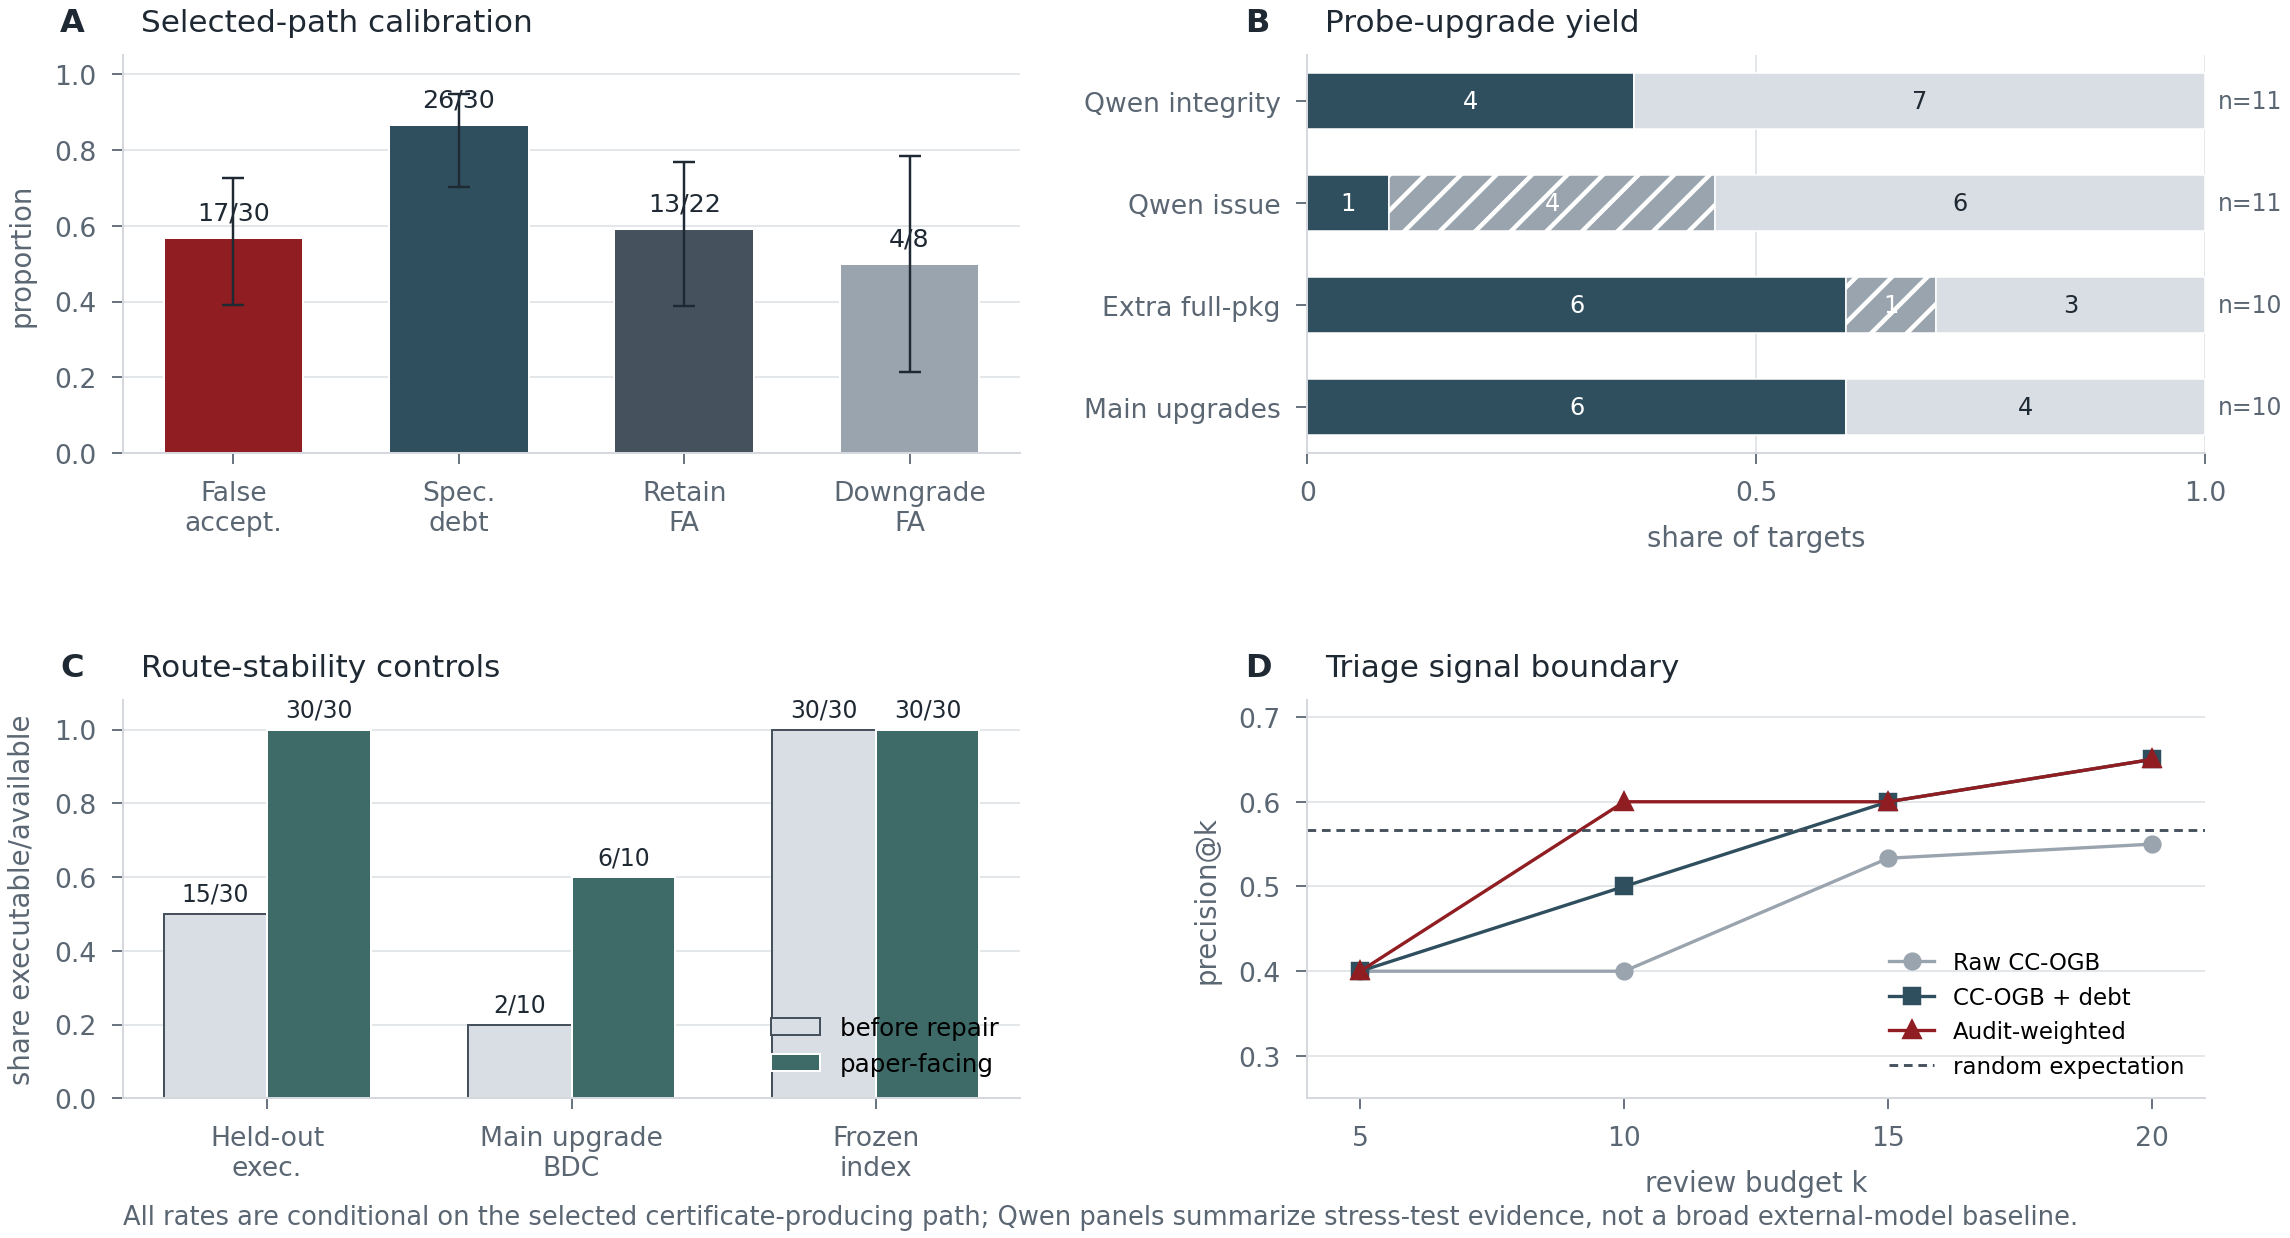
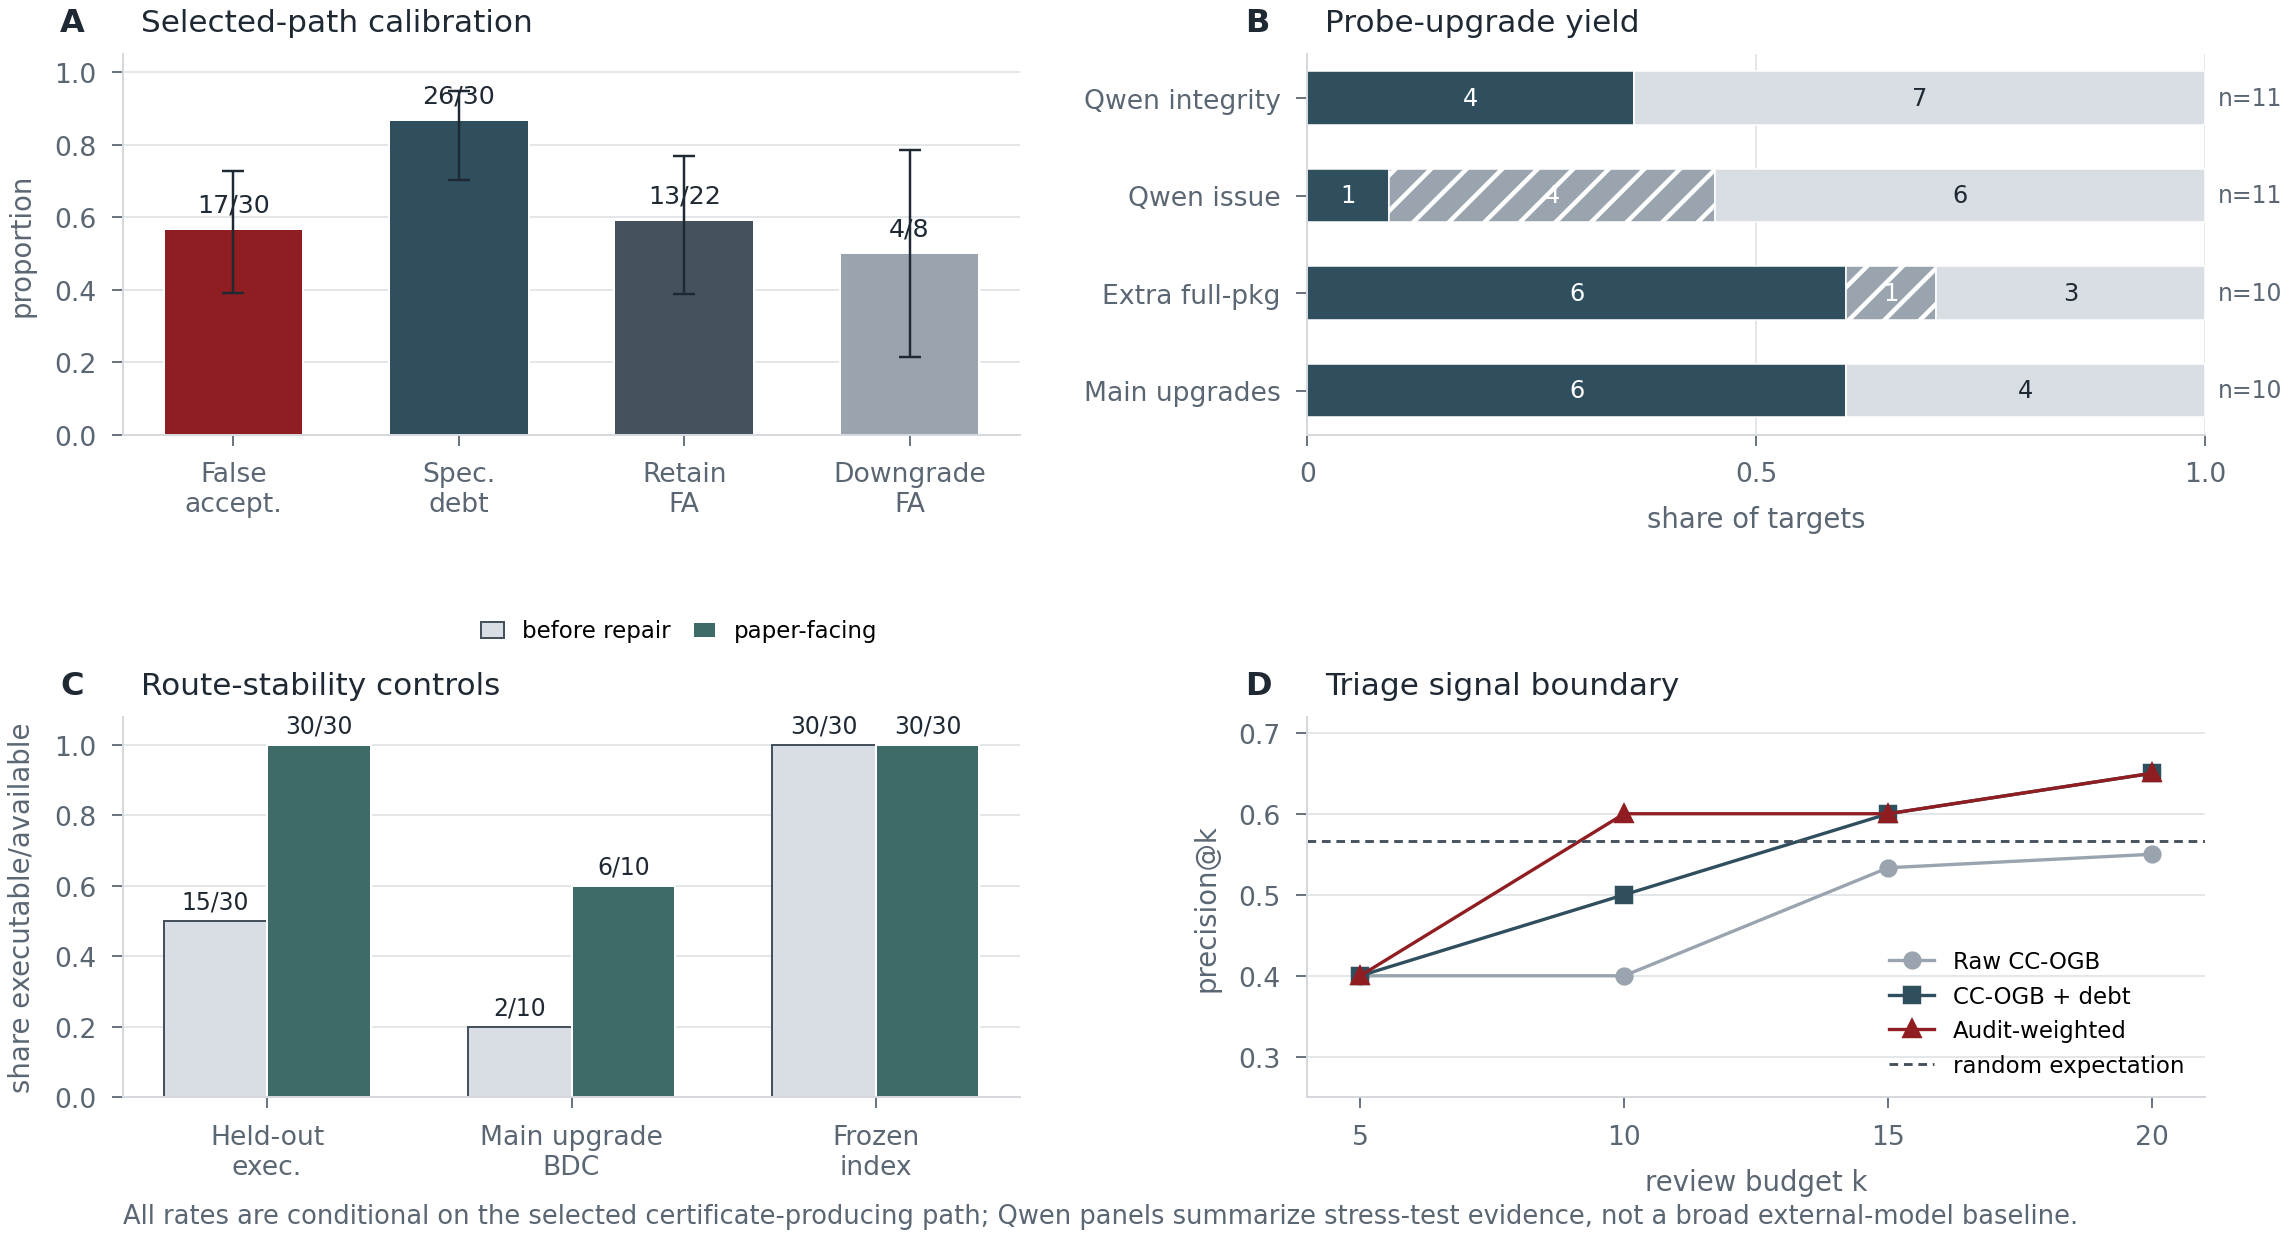
Refresh package with final figure and conclusion polish

diff --git a/artifact/inspect_only/latex/main.tex b/artifact/inspect_only/latex/main.tex
@@ -650,13 +650,14 @@ The artifact contains the corresponding single-purpose plots for calibration rat
 The following cases ground the aggregate tables in certificate-level evidence.
 They connect the table-level claims in Tables~\ref{tab:heldout}--\ref{tab:claim-boundary} to artifact audit rows.
 Each case links to the underlying certificate and table row for inspection.
+Code-facing evidence appears in Figures~\ref{fig:structured-patch-record}, \ref{fig:probe-code-cards}, and \ref{fig:django-code-card}.
 
 \subsection{Seaborn MultiIndex Pairplot}
 
 Seaborn-3407 is the strongest cross-source case.
 It appears in the main upgraded probe layer and is also the only Qwen issue/full-package pass/fail BDC after multi-sample generation.
-The issue-level package probe separates visible-passing edits: the main lane reports three pass and one fail, and the Qwen lane reports one pass and four fail, with the passing group constructing the 4-by-4 axes grid shown in Figure~\ref{fig:probe-code-cards}.
-The certificate is formed from public behavior alone, so the case supports independent-source compatibility without carrying a broad Qwen reproduction claim.
+The issue-level package probe separates visible-passing edits: the main lane reports three pass and one fail, and the Qwen lane reports one pass and four fail, with the passing group constructing the 4-by-4 axes grid in Figure~\ref{fig:probe-code-cards}.
+The certificate supports independent-source compatibility without carrying a broad Qwen reproduction claim.
 
 \subsection{Matplotlib All-NaN Bar Plot}
 
@@ -669,52 +670,63 @@ The certificate localizes the behavioral split; the false-acceptance label comes
 
 Scikit-Learn-10508 separates issue behavior from package-integrity risk.
 In the main lane, the LabelEncoder empty-transform reproducer yields a pass/fail certificate once compiled-extension/build routing is repaired.
-That record has three passing candidates, one failing candidate, and no timeouts; the passing group preserves an empty one-dimensional output, while the failing group hits a NumPy casting path.
-In the Qwen lane, issue-specific probes remain all-fail, while a package-integrity probe reports two pass and three fail on whether LabelEncoder can be imported and constructed.
-\patchcourt records both facts but treats the integrity split as package-risk evidence rather than issue-correctness evidence.
+The record has three pass, one fail, and no timeouts: the passing group preserves an empty one-dimensional output, while the failing group hits a NumPy casting path.
+In the Qwen lane, issue-specific probes remain all-fail, while a package-integrity probe reports two pass and three fail on whether LabelEncoder can be imported and constructed; \patchcourt treats that split as package-risk evidence rather than issue-correctness evidence.
 
 \subsection{Django Semantic Split}
 
 Django-16873 is a full-package semantic split under template rendering with autoescape disabled.
-The record has three passing candidates, one failing candidate, and no timeouts: the passing group preserves literal line-break separators under the issue reproducer, while the failing group escapes them as text and raises an assertion.
-The later held-out label for the selected candidate is not false acceptance, so the case illustrates how \bdcs flag unresolved semantics without becoming hidden-test labels.
+The record has three pass, one fail, and no timeouts: the passing group preserves literal line-break separators, while the failing group escapes them and raises an assertion.
+The later held-out label is not false acceptance, so the case shows how \bdcs flag unresolved semantics without becoming hidden-test labels.
+
+\begin{figure}[t]
+\begin{lstlisting}[style=patchcourtpatch]
+# Django-16873 full-package public probe
+out = render_join(autoescape=False)
+
+A/B/C: pass -> "alpha\nbeta"
+D:     fail -> escaped separator assertion
+
+certificate: pass/fail BDC before freeze
+boundary: semantic split, not hidden-test oracle
+\end{lstlisting}
+  \caption{Code-facing Django case probe. The public full-package probe splits three visible-passing candidates that preserve separator behavior from one that escapes it.}
+  \Description{A compact code-like Django probe card showing render_join with autoescape disabled, three passing candidates preserving alpha newline beta, one failing candidate with an escaped separator assertion, and a boundary note that the certificate is not a hidden-test oracle.}
+  \label{fig:django-code-card}
+\end{figure}
 
 \subsection{SymPy Issue-Code Layer}
 
 SymPy task 23117 demonstrates the issue-code layer.
 The public snippet in Figure~\ref{fig:probe-code-cards} yields three pass, one fail, and no timeouts, with the passing group preserving an empty array result.
-This cheap issue-tied layer is stronger than a source-isolated template while remaining separate from held-out calibration.
+This issue-tied layer is stronger than a source-isolated template while remaining separate from held-out calibration.
 
 \section{Related Work}
 
 \subsection{Repository-Level Repair, Agents, and Benchmarks}
 
-Repository-level repair studies now sit on a stack of benchmark and model infrastructure.
+Repository-level repair sits on benchmark and model infrastructure.
 Defects4J, ManyBugs, Bugs.jar, Bears, BugsInPy, and QuixBugs established controlled real-bug substrates for repair and testing research \cite{just2014defects4j,le2015manybugs,saha2018bugsjar,madeiral2019bears,widyasari2020bugsinpy,lin2017quixbugs}.
 SWE-bench and SWE-bench+ move the unit of work to GitHub issues and real repository snapshots \cite{jimenez2024swebench,aleithan2024swebenchplus}.
 Code models and code benchmarks provide the upstream capability base for these systems \cite{feng2020codebert,lu2021codexglue,chen2021codex,austin2021program,wang2021codet5,li2022alphacode,nijkamp2023codegen,roziere2023codellama,guo2024deepseekcoder}.
-Agent work then studies how models search repositories, call tools, manage turns, and produce candidate fixes \cite{yang2024sweagent,zhang2024autocoderover,bouzenia2025repairagent,xia2024agentless,gao2026moreless,tian2026ensemble}.
+Agent work studies repository search, tool use, turn management, and candidate-fix generation \cite{yang2024sweagent,zhang2024autocoderover,bouzenia2025repairagent,xia2024agentless,gao2026moreless,tian2026ensemble}.
 \patchcourt enters after that generation process.
-Its contribution is not a new search policy or agent loop; it audits the moment when a visible-pass candidate would otherwise be accepted and records what public evidence remains unresolved.
+It audits the moment when a visible-pass candidate would otherwise be accepted and records what public evidence remains unresolved.
 
 \subsection{LLM Repair and APR Overfitting}
 
-Automated program repair has long separated test-passing plausibility from semantic correctness.
-Generate-and-validate repair, template repair, semantic repair, and learning-based repair explore different ways of producing plausible patches \cite{weimer2009genprog,legoues2012systematic,kim2013par,nguyen2013semfix,long2016prophet,mechtaev2016angelix,xuan2017nopol,tufano2019learning,lutellier2020coconut,jiang2021cure,zhu2021recoder,xia2022less,xia2023conversational}.
+Automated program repair has long separated test-passing plausibility from semantic correctness, across generate-and-validate, template, semantic, and learning-based repair \cite{weimer2009genprog,legoues2012systematic,kim2013par,nguyen2013semfix,long2016prophet,mechtaev2016angelix,xuan2017nopol,tufano2019learning,lutellier2020coconut,jiang2021cure,zhu2021recoder,xia2022less,xia2023conversational}.
 Patch plausibility and overfitting studies show why passing tests can be insufficient \cite{qi2015plausibility,smith2015overfitting,ye2021automated,gazzola2019survey}.
 Recent ICSE work revisits APR in the LLM era through code-language-model impact, bug-report/test coupling, objective alignment, input reduction, and unnaturalness-based ranking \cite{jiang2023impact,motwani2023better,xu2025aligning,yang2026inputreduction,yang2025unnaturalness}.
-\patchcourt does not rediscover overfitting.
-It operationalizes a narrower acceptance-time question for repository-level LLM patch pools: after visible tests pass, can public, gold-blind behavior measurements expose an auditable risk record before benchmark labels are opened?
+\patchcourt operationalizes a narrower acceptance-time question for repository-level LLM patch pools: after visible tests pass, can public, gold-blind behavior measurements expose an auditable risk record before benchmark labels are opened?
 
 \subsection{Patch Correctness, Benchmark Validity, and Contamination}
 
 Recent SWE-bench correctness work asks whether benchmark-accepted issues are genuinely fixed and uses PatchDiff to compare generated patches against human-written ground-truth patches \cite{wang2025swebenchcorrectness}.
-Diagnostic benchmark work also studies whether strong SWE-bench performance may reflect memorization or benchmark exposure rather than issue reasoning \cite{liang2025illusion,jain2025livecodebench}.
-These studies are closest to \patchcourt because they challenge the meaning of a reported benchmark pass.
-Their timing is different.
-PatchDiff-style analysis can use developer patches, hidden tests, or stronger labels after evaluation.
-\patchcourt freezes an evidence ledger before those labels enter the process, then uses held-out calibration to measure how often the public evidence aligned with later failure.
-The resulting claim is weaker than retrospective correctness judgment, but it is available at the acceptance boundary where repair agents and benchmark pipelines must decide whether to trust a candidate.
+Diagnostic benchmark work studies whether strong SWE-bench performance may reflect memorization or benchmark exposure rather than issue reasoning \cite{liang2025illusion,jain2025livecodebench}.
+These studies challenge the meaning of a benchmark pass after evaluation.
+\patchcourt instead freezes an evidence ledger before developer patches, hidden tests, or stronger labels enter the process, then uses held-out calibration to measure alignment with later failure.
+The claim is weaker than retrospective correctness judgment, but it is available at the acceptance boundary.
 
 \subsection{Generated Tests, Oracles, and Validation}
 
@@ -723,35 +735,34 @@ Classic testing work developed feedback-directed random testing, symbolic execut
 Search-based and LLM-based testing studies continue this line with generated tests, bug reproduction, and execution feedback \cite{lemieux2023codamosa,kang2023fewshot,chen2023codet,liu2023evalplus,ahmed2026heterogeneous,shin2026retrieval,li2026knowledge}.
 Oracle-generation work, including TOGA, neural-oracle evaluations, and TOGLL, studies when automated or LLM-produced assertions become correct and strong enough for testing \cite{barr2015oracle,pezzezhang2014oracles,dinella2022toga,hossain2023neuraloracle,hossain2025togll}.
 \patchcourt treats probes as evidence-producing instruments rather than as generated oracle labels.
-Their role is to separate visible-passing candidate behavior and create a certificate whose evidentiary weight depends on the layer: source-isolated, issue-code, full-package issue, package-integrity, or post-freeze held-out calibration.
+Their evidentiary weight depends on the layer: source-isolated, issue-code, full-package issue, package-integrity, or post-freeze held-out calibration.
 
 \section{Threats to Validity}
 
 \textbf{Internal validity.}
 Probe code may encode an incomplete interpretation of the issue.
 Environment routing may introduce artifacts, especially for repositories with compiled extensions, old dependencies, or package-specific entry points.
-\patchcourt mitigates this by logging route metadata, reporting the route-stability table, and separating source-isolated, issue-code, full-package, package-integrity, and held-out layers.
-The rubric still relies on human judgment; stable certificate links, pass/fail behavior, audit labels, and downgrade reasons are exposed in the artifact rather than hidden behind a single score.
+\patchcourt mitigates this by logging route metadata, reporting route stability, and separating source-isolated, issue-code, full-package, package-integrity, and held-out layers.
+The rubric still relies on human judgment; certificate links, pass/fail behavior, audit labels, and downgrade reasons are exposed in the artifact.
 
 \textbf{Construct validity.}
 \bdcs localize public behavioral disagreement, while \ccogb summarizes a candidate-conditional lower-bound signal.
-All-fail divergence is weaker than pass/fail disagreement, and package-integrity probes measure regression or API preservation rather than issue behavior.
-The tables keep these evidence types separate so that risk evidence is not collapsed into a correctness label.
+All-fail divergence is weaker than pass/fail disagreement, and package-integrity probes measure regression or API preservation rather than issue behavior; the tables keep those evidence types separate.
 
 \textbf{External validity.}
 The main calibration set contains 30 frozen certificates selected through an audit pipeline.
 The resulting rates describe this selected certificate-producing path.
-Broader repository, language, and candidate-source coverage is needed before estimating field-wide repair behavior.
+Broader repository, language, and candidate-source coverage is needed before estimating field-wide behavior.
 The selection funnel in Figure~\ref{fig:selection-funnel} is included to make this selected-set boundary explicit.
 
 \textbf{Conclusion validity.}
 The correlation, rerank, and abstain results are small-$N$ and preliminary.
 Specification debt performs strongly in this table, but the pattern may reflect the selected certificate set.
-The triage results are therefore practical evidence for review prioritization rather than a validated predictor.
+The triage results are practical evidence for review prioritization rather than a validated predictor.
 
 \textbf{Independent-source validity.}
 One issue-specific pass/fail BDC and four package-integrity BDCs make the Qwen lane a stress test with limited issue-specific yield.
-The direct-diff Qwen run remains a negative baseline, and the project-controlled batch lane remains separate from an authenticated external-model baseline, as recorded in Table~\ref{tab:candidate-provenance}.
+The direct-diff Qwen run remains a negative baseline, and the project-controlled batch lane remains separate from an authenticated external-model baseline.
 
 \textbf{Gold-boundary validity.}
 \patchcourt's strongest design claim is the pre-freeze/post-freeze separation.
@@ -763,23 +774,32 @@ If any future experiment uses developer patches, test patches, FAIL\_TO\_PASS, o
 The anonymous artifact is designed for inspect-only reproduction first, with optional deeper replay where compute and model access are available.
 At Level~0, reviewers inspect frozen tables, reports, certificates, and audit labels without external model access.
 At Level~1, they run the packaged verifier to regenerate paper-facing summaries from the shipped CSV, JSONL, and Markdown files.
-At Level~2, they replay selected probes against existing worktrees on a Linux runtime.
-At Level~3, they regenerate candidates, visible tests, probes, BDCs, ledgers, and calibration with model access or staged local weights.
+At Levels~2--3, they replay selected probes or regenerate candidates, visible tests, probes, BDCs, ledgers, and calibration with suitable runtimes and model access.
 
-The bundle contains the paper tables, main result data files, frozen audit indices, Qwen audit reports, figure sources and rendered figures, and an anonymous claim-boundary card.
+The bundle contains paper tables, result data files, frozen audit indices, Qwen audit reports, figure sources, rendered figures, and an anonymous claim-boundary card.
 It excludes passwords, API keys, transient cookies, private keys, and author-identifying machine paths.
-Execution identifiers remain inside artifact index files for auditability, but the paper-facing text reports stable concepts rather than run-specific names.
+Execution identifiers remain inside index files for auditability, while the paper-facing text uses stable concepts.
 
 \section{Discussion and Conclusion}
 
-The procedural implication is direct.
-Repository-level repair evaluation should not stop at visible-pass acceptance.
-Even when a patch applies and visible tests pass, the candidate pool may still encode incompatible issue interpretations.
-\patchcourt turns that uncertainty into executable audit evidence before evaluation-only labels are read.
+This paper studied a concrete failure mode in repository-level LLM repair: visible tests can accept patches that still encode unresolved issue behavior.
+We characterize that gap as an acceptance-time measurement problem.
+\patchcourt turns visible-passing patches into executable hypotheses, records public behavior disagreements before benchmark labels are read, and calibrates the frozen records after held-out labels become available.
 
-The evidentiary implication is narrower but useful.
-Within the selected certificate-producing path, false acceptance is common enough to make visible-pass acceptance a risky endpoint, and pre-freeze disagreement evidence gives reviewers a concrete reason to rerank, inspect, or abstain.
-The independent-source stress test shows that the pipeline can ingest a local model source, while its low issue-specific yield keeps the strongest empirical claim anchored in the frozen selected path.
+The method follows a deliberately narrow flow.
+Candidate patches first pass through repository apply and visible-test filters.
+Public probes measure behavior at source-isolated, issue-code, full-package, and package-integrity layers.
+Executions are normalized into behavior signatures and retained as certificate records when the audit rubric finds actionable disagreement.
+After freeze, held-out calibration estimates how often the selected certificate-producing path corresponds to false acceptance or specification debt.
+
+The main empirical result is that visible-pass acceptance is a poor stopping point on this selected path.
+Among 30 frozen certificate-producing records, 17 become false acceptances under post-freeze held-out calibration and 26 retain specification-debt signals.
+Stronger issue-code or full-package upgrades preserve pass/fail disagreement in 6/10 selected upgrades, and a separate package-level upgrade set preserves another 6/10 certificates.
+The Qwen stress lane demonstrates source compatibility with one issue-specific and four package-integrity disagreement cases, while keeping the main claim anchored in the audited frozen path.
+
+The broader implication is operational.
+Visible tests should trigger inspection, reranking, or abstention when public executable evidence shows unresolved behavior; they should not be the final oracle for accepting repository-level repairs.
+Future work should expand the selected path across more repositories and model sources, add multi-rater audit, and integrate certificate evidence into repair agents before deployment-time acceptance decisions.
 \bibliographystyle{IEEEtran}
 \bibliography{references}
 

diff --git a/README.md b/README.md
@@ -22,8 +22,8 @@ Expected status: `PASS` with 44 checks.
 
 ## Current Package Hashes
 
[4 lines of base64/hex data omitted]
 
 ## Claim Boundary
 

diff --git a/artifact/inspect_only/reports/phase33_ieee_template_format_report_20260629.md b/artifact/inspect_only/reports/phase33_ieee_template_format_report_20260629.md
@@ -8,8 +8,8 @@ Bind the active ICSE 2027 manuscript to the user-provided IEEE conference templa
 
 ## Template Sources
 
-- Word template archive: `C:/Users/Administrator/xwechat_files/wxid_m8xidlxvgjqp22_02f1/msg/file/2026-06/Conference-Templates-Word.zip`.
-- LaTeX template archive: `C:/Users/Administrator/xwechat_files/wxid_m8xidlxvgjqp22_02f1/msg/file/2026-06/conference-latex-template_10-17-19.zip`.
+- Word template archive: supplied collaborator IEEE conference Word template archive.
+- LaTeX template archive: supplied collaborator IEEE conference LaTeX template archive.
 - Extracted template reference directory: `paper/icse2027/assets_20260629_template_format_phase33/`.
 - Supplied LaTeX class copied into the active lane: `paper/icse2027/latex_ieee_template_20260629/IEEEtran.cls`.
 